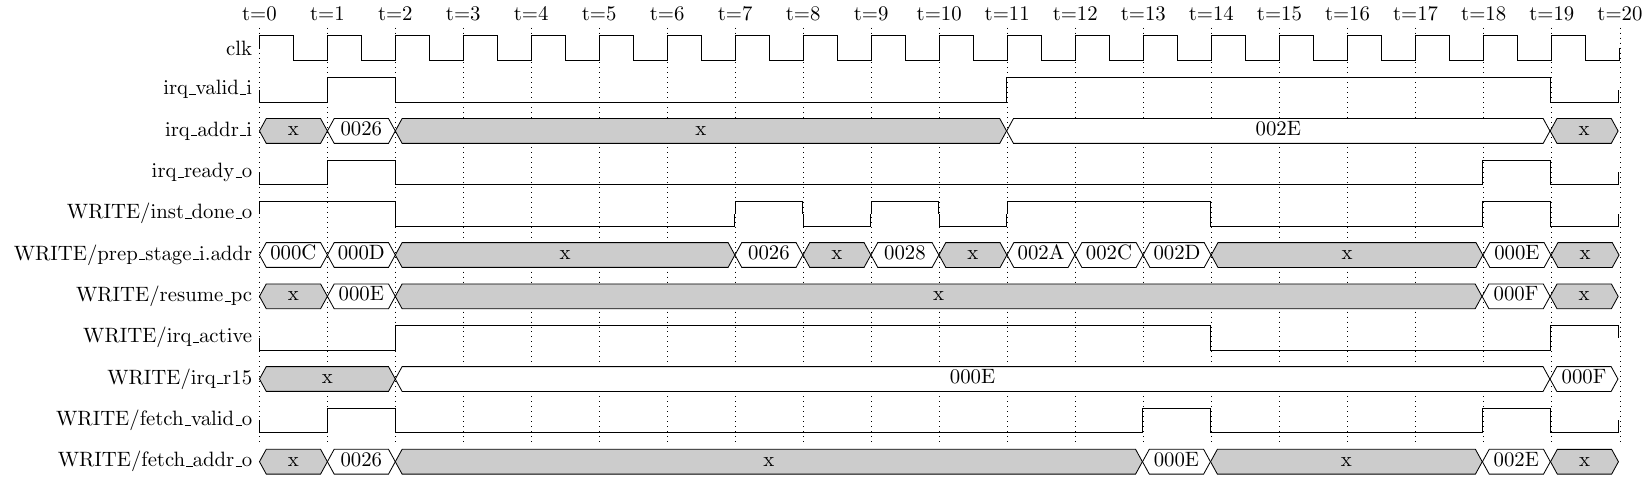
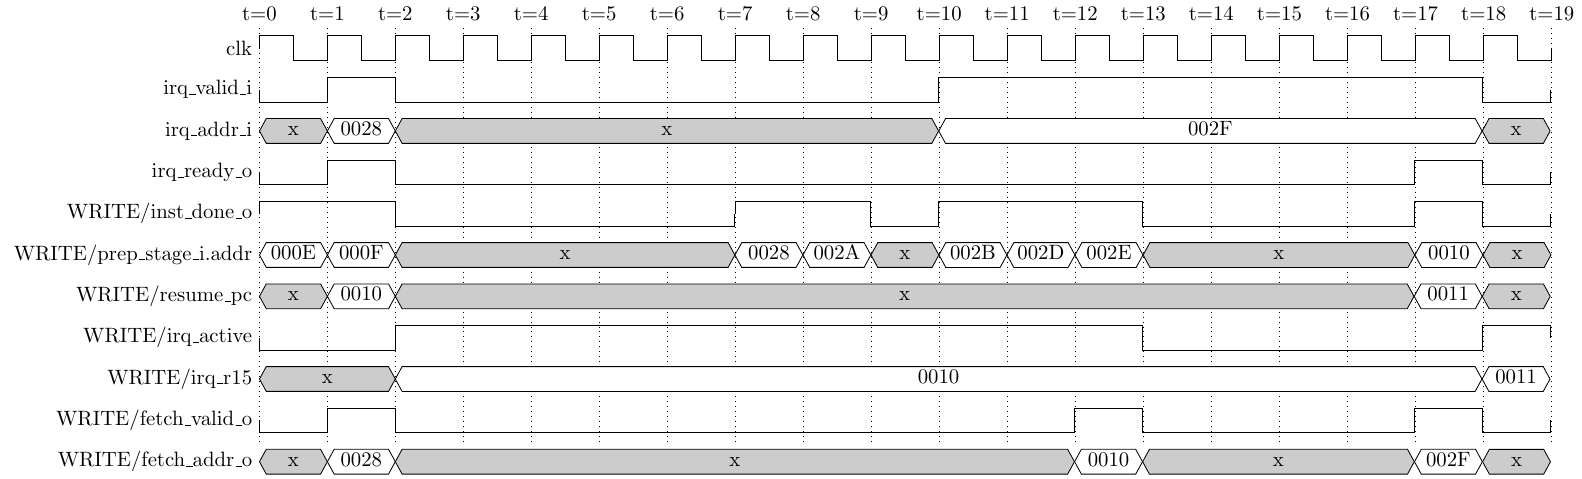
interrupt: Shorten the timing diagram from 20 to 19 cycles
ISR1 in test/prog_int_waveform.asm now requests the second interrupt with
"MOVE R5, @R1", R5 loaded in the main program, instead of "MOVE 0x0001, @R1":
the immediate cost a word and a cycle inside the drawn window.

The extra load shifts the addresses by two words, so timing.tex and the
walkthrough in src/interrupt/README.md are re-read from a fresh simulation,
and the program's golden files are regenerated.

Claude-Session: https://claude.ai/code/session_01QR1nXxnxN7TxRzmrwh9yrH

diff --git a/src/interrupt/timing.tex b/src/interrupt/timing.tex
@@ -9,13 +9,13 @@
 %
 % All values below are taken from a GHDL simulation of
 % test/prog_int_waveform.asm at the default (zero) memory latencies: t=0 is the
-% clock cycle from 270 ns to 280 ns.  Changing that program, or the number of
+% clock cycle from 290 ns to 300 ns.  Changing that program, or the number of
 % cycles any instruction in it takes, invalidates them.  The addresses are:
 %
-%   000C-000E  padding "MOVE R2, R2" in the main program
-%   0026       ISR1, which requests the second interrupt
-%   002A-002D  the last three instructions of ISR1, ending in RTI at 002D
-%   002E       ISR2
+%   000E-0010  padding "MOVE R2, R2" in the main program
+%   0028       ISR1, which requests the second interrupt
+%   002B-002E  the last three instructions of ISR1, ending in RTI at 002E
+%   002F       ISR2
 
 \documentclass{standalone}
 \usepackage{timing}
@@ -38,23 +38,23 @@
 % irq_r14, not drawn), which change on the edge that ends a cycle with a
 % transfer or an RTI.
 %
-% t=1   Request 1 arrives in the cycle 000D retires, and is taken in that same
-%       cycle: accepted, redirected to 0026, and resume_pc (000E) saved.
-% t=11  Request 2 arrives inside ISR1.  It is refused at 002A, 002C, and at the
-%       RTI at 002D (t=13), because irq_active is still high in that cycle.
-% t=18  The first instruction back at the return address, 000E, retires, and
-%       request 2 is taken, saving 000F.
-\begin{wave}{10}{20}
- \nextwave{irq\_valid\_i}                 \bit{0}{1} \bit{1}{1} \bit{0}{9} \bit{1}{8} \bit{0}{1}
- \nextwave{irq\_addr\_i}                  \unknown[x]{1} \known{0026}{1} \unknown[x]{9} \known{002E}{8} \unknown[x]{1}
- \nextwave{irq\_ready\_o}                 \bit{0}{1} \bit{1}{1} \bit{0}{16} \bit{1}{1} \bit{0}{1}
- \nextwave{WRITE/inst\_done\_o}           \bit{1}{2} \bit{0}{5} \bit{1}{1} \bit{0}{1} \bit{1}{1} \bit{0}{1} \bit{1}{3} \bit{0}{4} \bit{1}{1} \bit{0}{1}
- \nextwave{WRITE/prep\_stage\_i.addr}     \known{000C}{1} \known{000D}{1} \unknown[x]{5} \known{0026}{1} \unknown[x]{1} \known{0028}{1} \unknown[x]{1} \known{002A}{1} \known{002C}{1} \known{002D}{1} \unknown[x]{4} \known{000E}{1} \unknown[x]{1}
- \nextwave{WRITE/resume\_pc}              \unknown[x]{1} \known{000E}{1} \unknown[x]{16} \known{000F}{1} \unknown[x]{1}
- \nextwave{WRITE/irq\_active}             \bit{0}{2} \bit{1}{12} \bit{0}{5} \bit{1}{1}
- \nextwave{WRITE/irq\_r15}                \unknown[x]{2} \known{000E}{17} \known{000F}{1}
- \nextwave{WRITE/fetch\_valid\_o}         \bit{0}{1} \bit{1}{1} \bit{0}{11} \bit{1}{1} \bit{0}{4} \bit{1}{1} \bit{0}{1}
- \nextwave{WRITE/fetch\_addr\_o}          \unknown[x]{1} \known{0026}{1} \unknown[x]{11} \known{000E}{1} \unknown[x]{4} \known{002E}{1} \unknown[x]{1}
+% t=1   Request 1 arrives in the cycle 000F retires, and is taken in that same
+%       cycle: accepted, redirected to 0028, and resume_pc (0010) saved.
+% t=10  Request 2 arrives inside ISR1.  It is refused at 002B, 002D, and at the
+%       RTI at 002E (t=12), because irq_active is still high in that cycle.
+% t=17  The first instruction back at the return address, 0010, retires, and
+%       request 2 is taken, saving 0011.
+\begin{wave}{10}{19}
+ \nextwave{irq\_valid\_i}                 \bit{0}{1} \bit{1}{1} \bit{0}{8} \bit{1}{8} \bit{0}{1}
+ \nextwave{irq\_addr\_i}                  \unknown[x]{1} \known{0028}{1} \unknown[x]{8} \known{002F}{8} \unknown[x]{1}
+ \nextwave{irq\_ready\_o}                 \bit{0}{1} \bit{1}{1} \bit{0}{15} \bit{1}{1} \bit{0}{1}
+ \nextwave{WRITE/inst\_done\_o}           \bit{1}{2} \bit{0}{5} \bit{1}{2} \bit{0}{1} \bit{1}{3} \bit{0}{4} \bit{1}{1} \bit{0}{1}
+ \nextwave{WRITE/prep\_stage\_i.addr}     \known{000E}{1} \known{000F}{1} \unknown[x]{5} \known{0028}{1} \known{002A}{1} \unknown[x]{1} \known{002B}{1} \known{002D}{1} \known{002E}{1} \unknown[x]{4} \known{0010}{1} \unknown[x]{1}
+ \nextwave{WRITE/resume\_pc}              \unknown[x]{1} \known{0010}{1} \unknown[x]{15} \known{0011}{1} \unknown[x]{1}
+ \nextwave{WRITE/irq\_active}             \bit{0}{2} \bit{1}{11} \bit{0}{5} \bit{1}{1}
+ \nextwave{WRITE/irq\_r15}                \unknown[x]{2} \known{0010}{16} \known{0011}{1}
+ \nextwave{WRITE/fetch\_valid\_o}         \bit{0}{1} \bit{1}{1} \bit{0}{10} \bit{1}{1} \bit{0}{4} \bit{1}{1} \bit{0}{1}
+ \nextwave{WRITE/fetch\_addr\_o}          \unknown[x]{1} \known{0028}{1} \unknown[x]{10} \known{0010}{1} \unknown[x]{4} \known{002F}{1} \unknown[x]{1}
 \end{wave}
 
 \end{document}

diff --git a/src/interrupt/README.md b/src/interrupt/README.md
@@ -52,33 +52,33 @@ Nothing in the handshake is registered. WRITE looks at `irq_valid_i` and
 cycle. The only state is `irq_active` and the saved `irq_r15` (and `irq_r14`, not
 drawn), which change on the edge that ends a cycle with a transfer or an `RTI`.
 
-* **t=0** The main program is running through padding at `000C`, one instruction
+* **t=0** The main program is running through padding at `000E`, one instruction
   retiring per cycle. No request.
-* **t=1** The device asserts `irq_valid_i` with `irq_addr_i = 0026`, in the cycle
-  `000D` retires. **This is the transfer, the commit, and the redirect, all in
-  one cycle**: `irq_ready_o` is high, `fetch_valid_o` sends FETCH to `0026`, and
+* **t=1** The device asserts `irq_valid_i` with `irq_addr_i = 0028`, in the cycle
+  `000F` retires. **This is the transfer, the commit, and the redirect, all in
+  one cycle**: `irq_ready_o` is high, `fetch_valid_o` sends FETCH to `0028`, and
   `resume_pc` — the address execution would otherwise have continued at, here
-  `000E` — is latched into `irq_r15` on the edge that ends the cycle, together
+  `0010` — is latched into `irq_r15` on the edge that ends the cycle, together
   with `irq_active`. A request that arrives at an instruction boundary costs no
   cycles of its own beyond the redirect.
 * **t=2** The device has dropped `irq_valid_i`, and scrambles `irq_addr_i` so
   that a CPU capturing it late would fail. `irq_active` is high. Nothing retires
-  for five cycles while the pipeline refills from `0026`, the same penalty a
+  for five cycles while the pipeline refills from `0028`, the same penalty a
   taken branch pays.
-* **t=7, t=9** ISR1 retires its first two instructions; the second of them, at
-  `0028`, is the write that asks the device for another interrupt.
-* **t=11** The device asserts `irq_valid_i` again, with `002E`. `002A` retires,
+* **t=7, t=8** ISR1 retires its first two instructions; the second of them, at
+  `002A`, is the write that asks the device for another interrupt.
+* **t=10** The device asserts `irq_valid_i` again, with `002F`. `002B` retires,
   but `irq_active` is high, so `irq_ready_o` stays low: interrupts do not nest.
-* **t=13** The `RTI` at `002D` retires. `fetch_valid_o` returns to `irq_r15`,
-  `000E`, and `irq_active` clears on the edge that ends the cycle. The request is
-  refused **during** t=13, because `irq_active` is still high for the whole of
+* **t=12** The `RTI` at `002E` retires. `fetch_valid_o` returns to `irq_r15`,
+  `0010`, and `irq_active` clears on the edge that ends the cycle. The request is
+  refused **during** t=12, because `irq_active` is still high for the whole of
   it.
-* **t=14 to t=17** `irq_active` is low and the request is still held, but nothing
-  retires while the pipeline refills from `000E`, and a request is only taken at
+* **t=13 to t=16** `irq_active` is low and the request is still held, but nothing
+  retires while the pipeline refills from `0010`, and a request is only taken at
   a boundary.
-* **t=18** `000E`, the first instruction back in the main program, retires, and
-  request 2 is taken exactly as request 1 was: accepted, redirected to `002E`,
-  and `000F` saved.
+* **t=17** `0010`, the first instruction back in the main program, retires, and
+  request 2 is taken exactly as request 1 was: accepted, redirected to `002F`,
+  and `0011` saved.
 
 Two things follow. **One instruction always runs between two service
 routines**, since the request is refused at the `RTI` and the next boundary is
